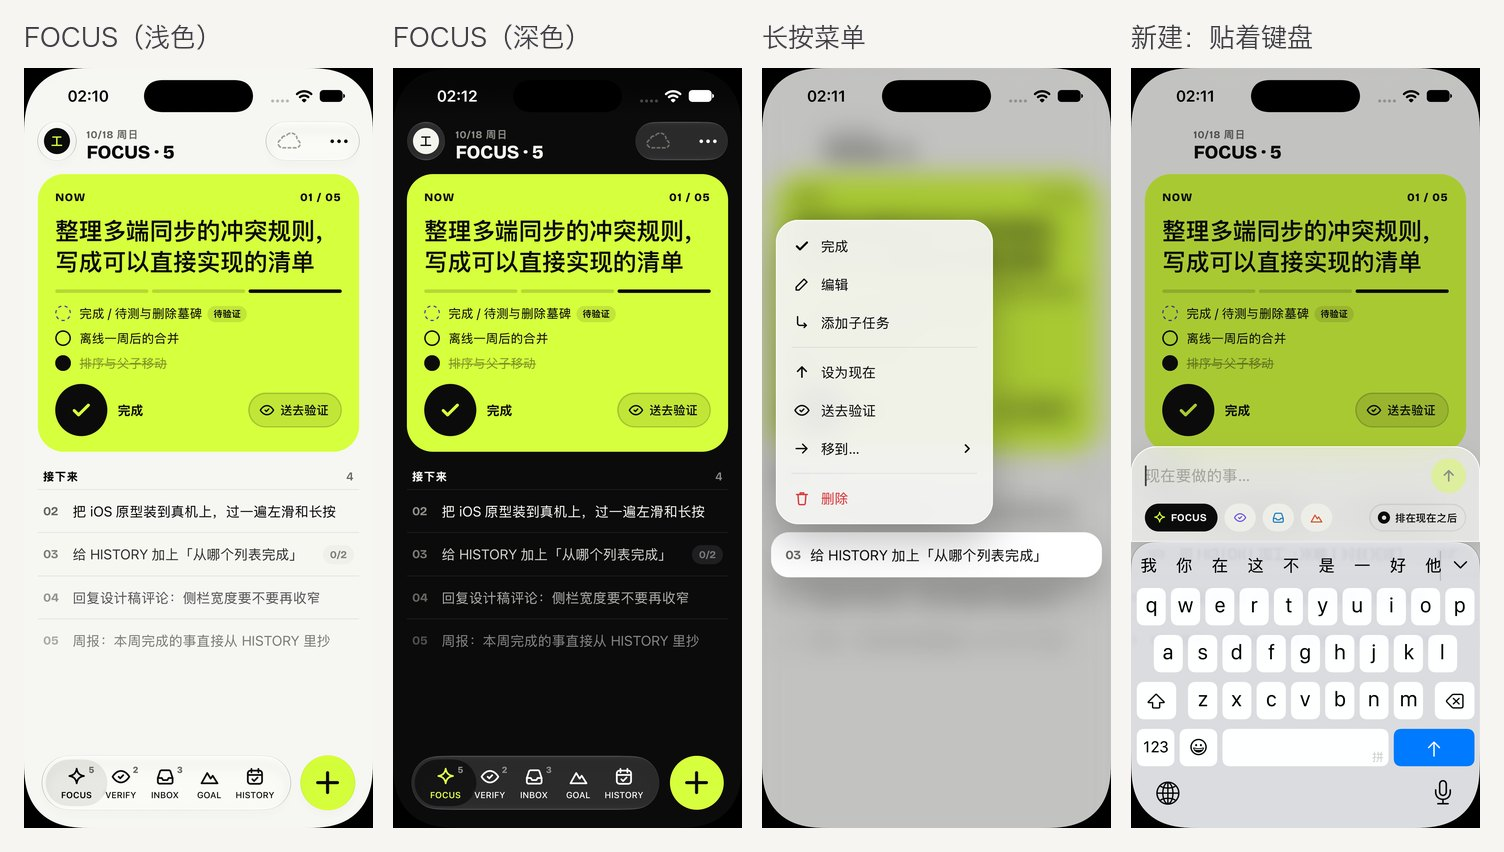
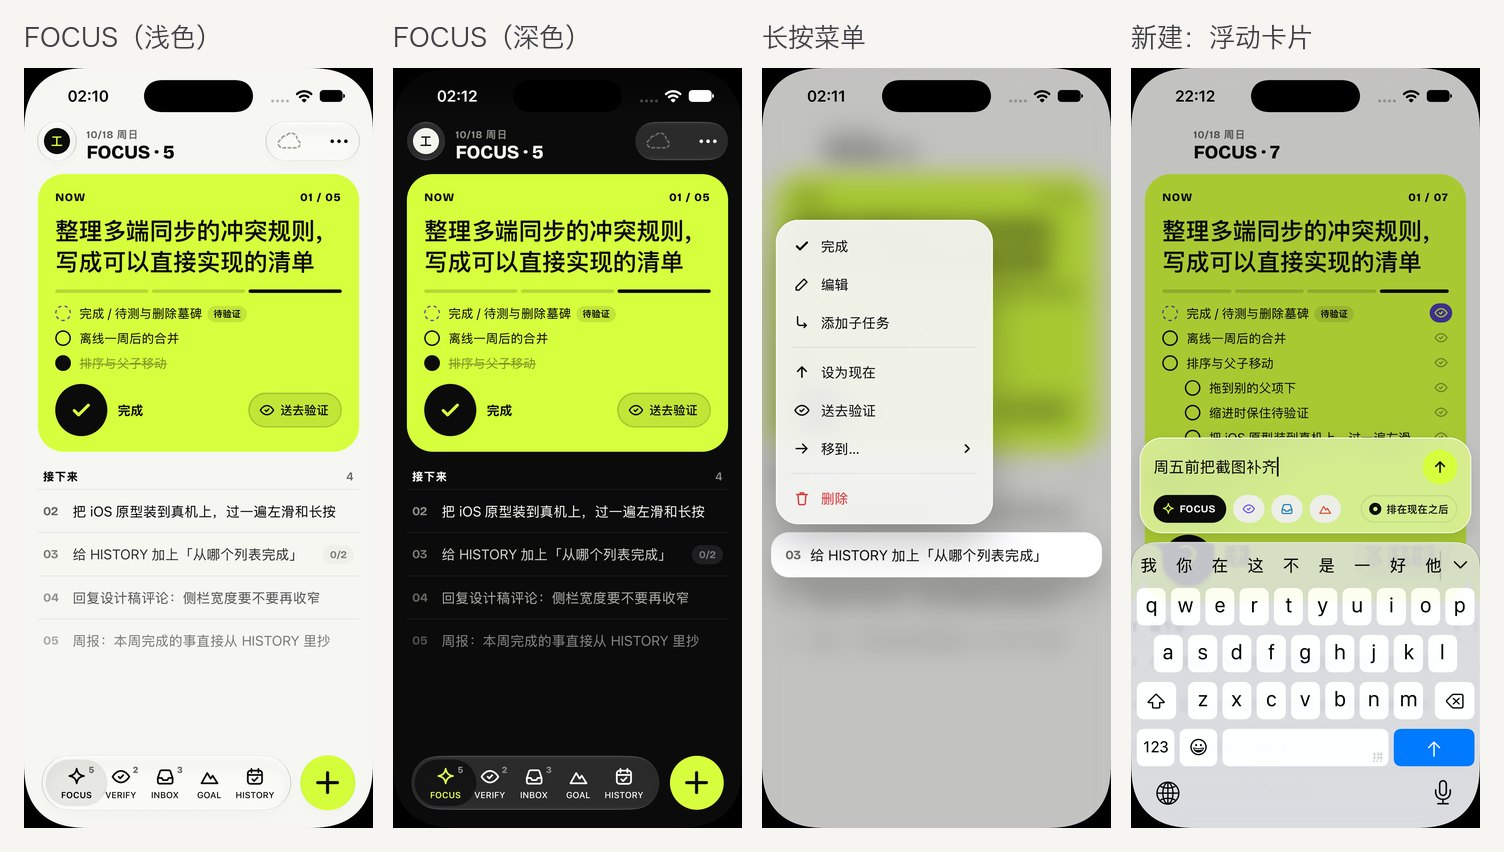
fix(ios): 新建浮窗随键盘收起一起关、草稿保留；做成四角圆角的浮动卡片
- 软键盘收起（收起键、下滑收起、点别处失焦）时新建卡片一起关；只认软键盘起来过又落下，
  接硬件键盘时不会因为键盘高度为 0 就关；旋转时等 0.2 秒确认键盘真的没回来
- 关掉时没提交的字留作草稿（transient 里也存一份），下次打开接着写；提交后才清空
- 新建卡片四个角都是圆角，两侧留边距、和键盘之间留 10pt，键盘起落时跟着上下，不露平底
- 系统收起键盘后 WebView 不再是第一响应者，再点 + 时键盘弹不出来：原生的 + 先把 WebView 设回第一响应者
- 「+」的位置不变（等新设计）；docs/ios.md 与截图更新

diff --git a/src/mobile/components/Composer.tsx b/src/mobile/components/Composer.tsx
@@ -4,7 +4,7 @@ import { useCallback, useEffect, useRef, useState } from 'react';
 import { LISTS, type ListId } from '../../types';
 import { addTodo, closeComposer, registerComposerInput } from '../actions';
 import { ArrowUpIcon, SectionIcons, SubtaskIcon } from '../icons';
-import { haptic } from '../native';
+import { haptic, onKeyboard } from '../native';
 import { useData, useTodos } from '../store';
 import { restored, saveTransient } from '../transient';
 import { pulse, useRefitOnWidth, useUi } from '../ui';
@@ -23,15 +23,40 @@ export function Composer() {
     return () => registerComposerInput(null);
   }, []);
 
-  // 收起时清空；首次挂载时不清，保留恢复出来的草稿
+  // 收起时不丢没提交的字：留作草稿（transient 里也存一份），下次打开接着写
   const wasOpen = useRef(open);
   useEffect(() => {
     if (wasOpen.current && !open) {
-      setText('');
-      saveTransient({ composer: undefined });
+      const draft = ref.current?.value ?? '';
+      saveTransient({ composer: draft.trim() ? { list, parentId, text: draft } : undefined });
     }
     wasOpen.current = open;
-  }, [open]);
+  }, [open, list, parentId]);
+
+  // 软键盘收起（键盘上的收起键、下滑收起、点别处失焦）时卡片跟着关。
+  // 只认「软键盘起来过、又落下去」：接硬件键盘时没有软键盘（高度一直是 0 或只有矮矮的快捷栏），不会因此关掉
+  const softKb = useRef(false);
+  useEffect(
+    () =>
+      onKeyboard((shown, height) => {
+        if (!useUi.getState().composer.open) {
+          softKb.current = false;
+          return;
+        }
+        if (shown) {
+          if (height > 120) softKb.current = true;
+          return;
+        }
+        if (!softKb.current) return;
+        softKb.current = false;
+        // 旋转时系统可能先报收起再报弹出：稍等一下，键盘真的没回来再关
+        setTimeout(() => {
+          const kb = parseFloat(getComputedStyle(document.documentElement).getPropertyValue('--kb')) || 0;
+          if (useUi.getState().composer.open && kb < 120) closeComposer();
+        }, 220);
+      }),
+    [],
+  );
 
   const fit = useCallback(() => {
     const el = ref.current;
@@ -43,7 +68,6 @@ export function Composer() {
   useRefitOnWidth(ref, fit);
 
   const afterNow = useData((s) => s.prefs.insertAfterNow);
-  const kb = useKeyboardUp();
 
   const submit = () => {
     const title = (ref.current?.value ?? text).trim();
@@ -73,7 +97,7 @@ export function Composer() {
   return (
     <div className={`composer-layer ${open ? 'is-open' : ''}`} aria-hidden={!open}>
       <div className="composer-scrim" onClick={closeComposer} />
-      <div className={`composer glass ${kb ? '' : 'is-floating'}`} style={{ '--c': `var(--c-${list})` } as React.CSSProperties}>
+      <div className="composer glass" style={{ '--c': `var(--c-${list})` } as React.CSSProperties}>
         {parent && (
           <div className="composer-context">
             <SubtaskIcon width={15} height={15} />

diff --git a/src/mobile/mobile.css b/src/mobile/mobile.css
@@ -1889,30 +1889,24 @@ textarea {
 
 .composer {
   position: absolute;
-  left: max(0px, env(safe-area-inset-left));
-  right: max(0px, env(safe-area-inset-right));
-  bottom: max(var(--kb), env(safe-area-inset-bottom));
+  /* 四角都圆的浮动卡片：两侧留边距，和键盘之间留出间距；键盘起落时跟着上下（不露平底） */
+  left: max(10px, calc(var(--inset-left) + 8px));
+  right: max(10px, calc(var(--inset-right) + 8px));
+  bottom: calc(max(var(--kb), env(safe-area-inset-bottom)) + 10px);
   max-width: 640px;
   margin: 0 auto;
   padding: 14px 16px 12px;
-  border-radius: 30px 30px 0 0;
+  border-radius: 26px;
   display: flex;
   flex-direction: column;
   gap: 12px;
   opacity: 0;
-  transform: translateY(30px);
+  transform: translateY(24px) scale(0.98);
+  transform-origin: 50% 100%;
   transition:
     opacity 0.2s,
     transform 0.3s var(--ease),
-    bottom 0.3s var(--ease);
-}
-
-/* 键盘没起来（外接键盘、浏览器）时整张卡浮在底部，四角都圆 */
-.composer.is-floating {
-  left: max(10px, calc(var(--inset-left) + 8px));
-  right: max(10px, calc(var(--inset-right) + 8px));
-  bottom: calc(env(safe-area-inset-bottom) + 10px);
-  border-radius: 26px;
+    bottom 0.3s cubic-bezier(0.32, 0.72, 0, 1);
 }
 
 .is-open .composer {
@@ -2061,12 +2055,8 @@ textarea {
 }
 
 /* 双页时新建卡放在左页，不压折痕 */
-.is-spread .composer,
-.is-spread .composer.is-floating {
-  left: max(10px, calc(var(--inset-left) + 8px));
+.is-spread .composer {
   right: calc(100% - var(--page-l-end) + 10px);
-  bottom: calc(max(var(--kb), env(safe-area-inset-bottom)) + 10px);
-  border-radius: 26px;
 }
 
 /* ============ 浮层：长按菜单、⋯ 菜单 ============ */

diff --git a/src/mobile/native.ts b/src/mobile/native.ts
@@ -47,10 +47,24 @@ export const haptic = {
 
 let selecting = false;
 
-/** 把软键盘高度写到 CSS 变量 --kb，底部的输入卡片跟着上移 */
+/** 软键盘起落：shown 时带高度（接硬件键盘时只有一条很矮的快捷栏，高度很小） */
+type KeyboardListener = (shown: boolean, height: number) => void;
+const keyboardListeners = new Set<KeyboardListener>();
+
+export function onKeyboard(fn: KeyboardListener) {
+  keyboardListeners.add(fn);
+  return () => {
+    keyboardListeners.delete(fn);
+  };
+}
+
+/** 把软键盘高度写到 CSS 变量 --kb，底部的输入卡片跟着上移；起落时通知 onKeyboard 的监听 */
 export function trackKeyboard() {
   const root = document.documentElement;
-  const setKb = (h: number) => root.style.setProperty('--kb', `${Math.max(0, Math.round(h))}px`);
+  const setKb = (h: number) => {
+    root.style.setProperty('--kb', `${Math.max(0, Math.round(h))}px`);
+    for (const fn of keyboardListeners) fn(h > 0, h);
+  };
   if (isNative) {
     safe(Keyboard.setAccessoryBarVisible({ isVisible: false }));
     safe(Keyboard.addListener('keyboardWillShow', (info) => setKb(info.keyboardHeight)));
@@ -60,7 +74,13 @@ export function trackKeyboard() {
   // 浏览器调试：用 visualViewport 估算
   const vv = window.visualViewport;
   if (!vv) return;
-  const update = () => setKb(window.innerHeight - vv.height - vv.offsetTop);
+  let last = 0;
+  const update = () => {
+    const h = Math.max(0, window.innerHeight - vv.height - vv.offsetTop);
+    if (Math.abs(h - last) < 1) return;
+    last = h;
+    setKb(h);
+  };
   vv.addEventListener('resize', update);
   vv.addEventListener('scroll', update);
 }

diff --git a/ios/App/App/FocusChrome.swift b/ios/App/App/FocusChrome.swift
@@ -373,6 +373,9 @@ final class ChromeShellController: UIViewController, UITabBarControllerDelegate 
     }
 
     private func compose() {
+        // 键盘被系统收起（收起键、下滑）后 WebView 不再是第一响应者，网页里再 focus 输入框也弹不出键盘：
+        // 先把它要回来，网页打开新建卡片时键盘才会跟着起来
+        if let webView = web.webView, !webView.isFirstResponder { webView.becomeFirstResponder() }
         web.chrome.send("action", ["name": "compose"])
     }
 
